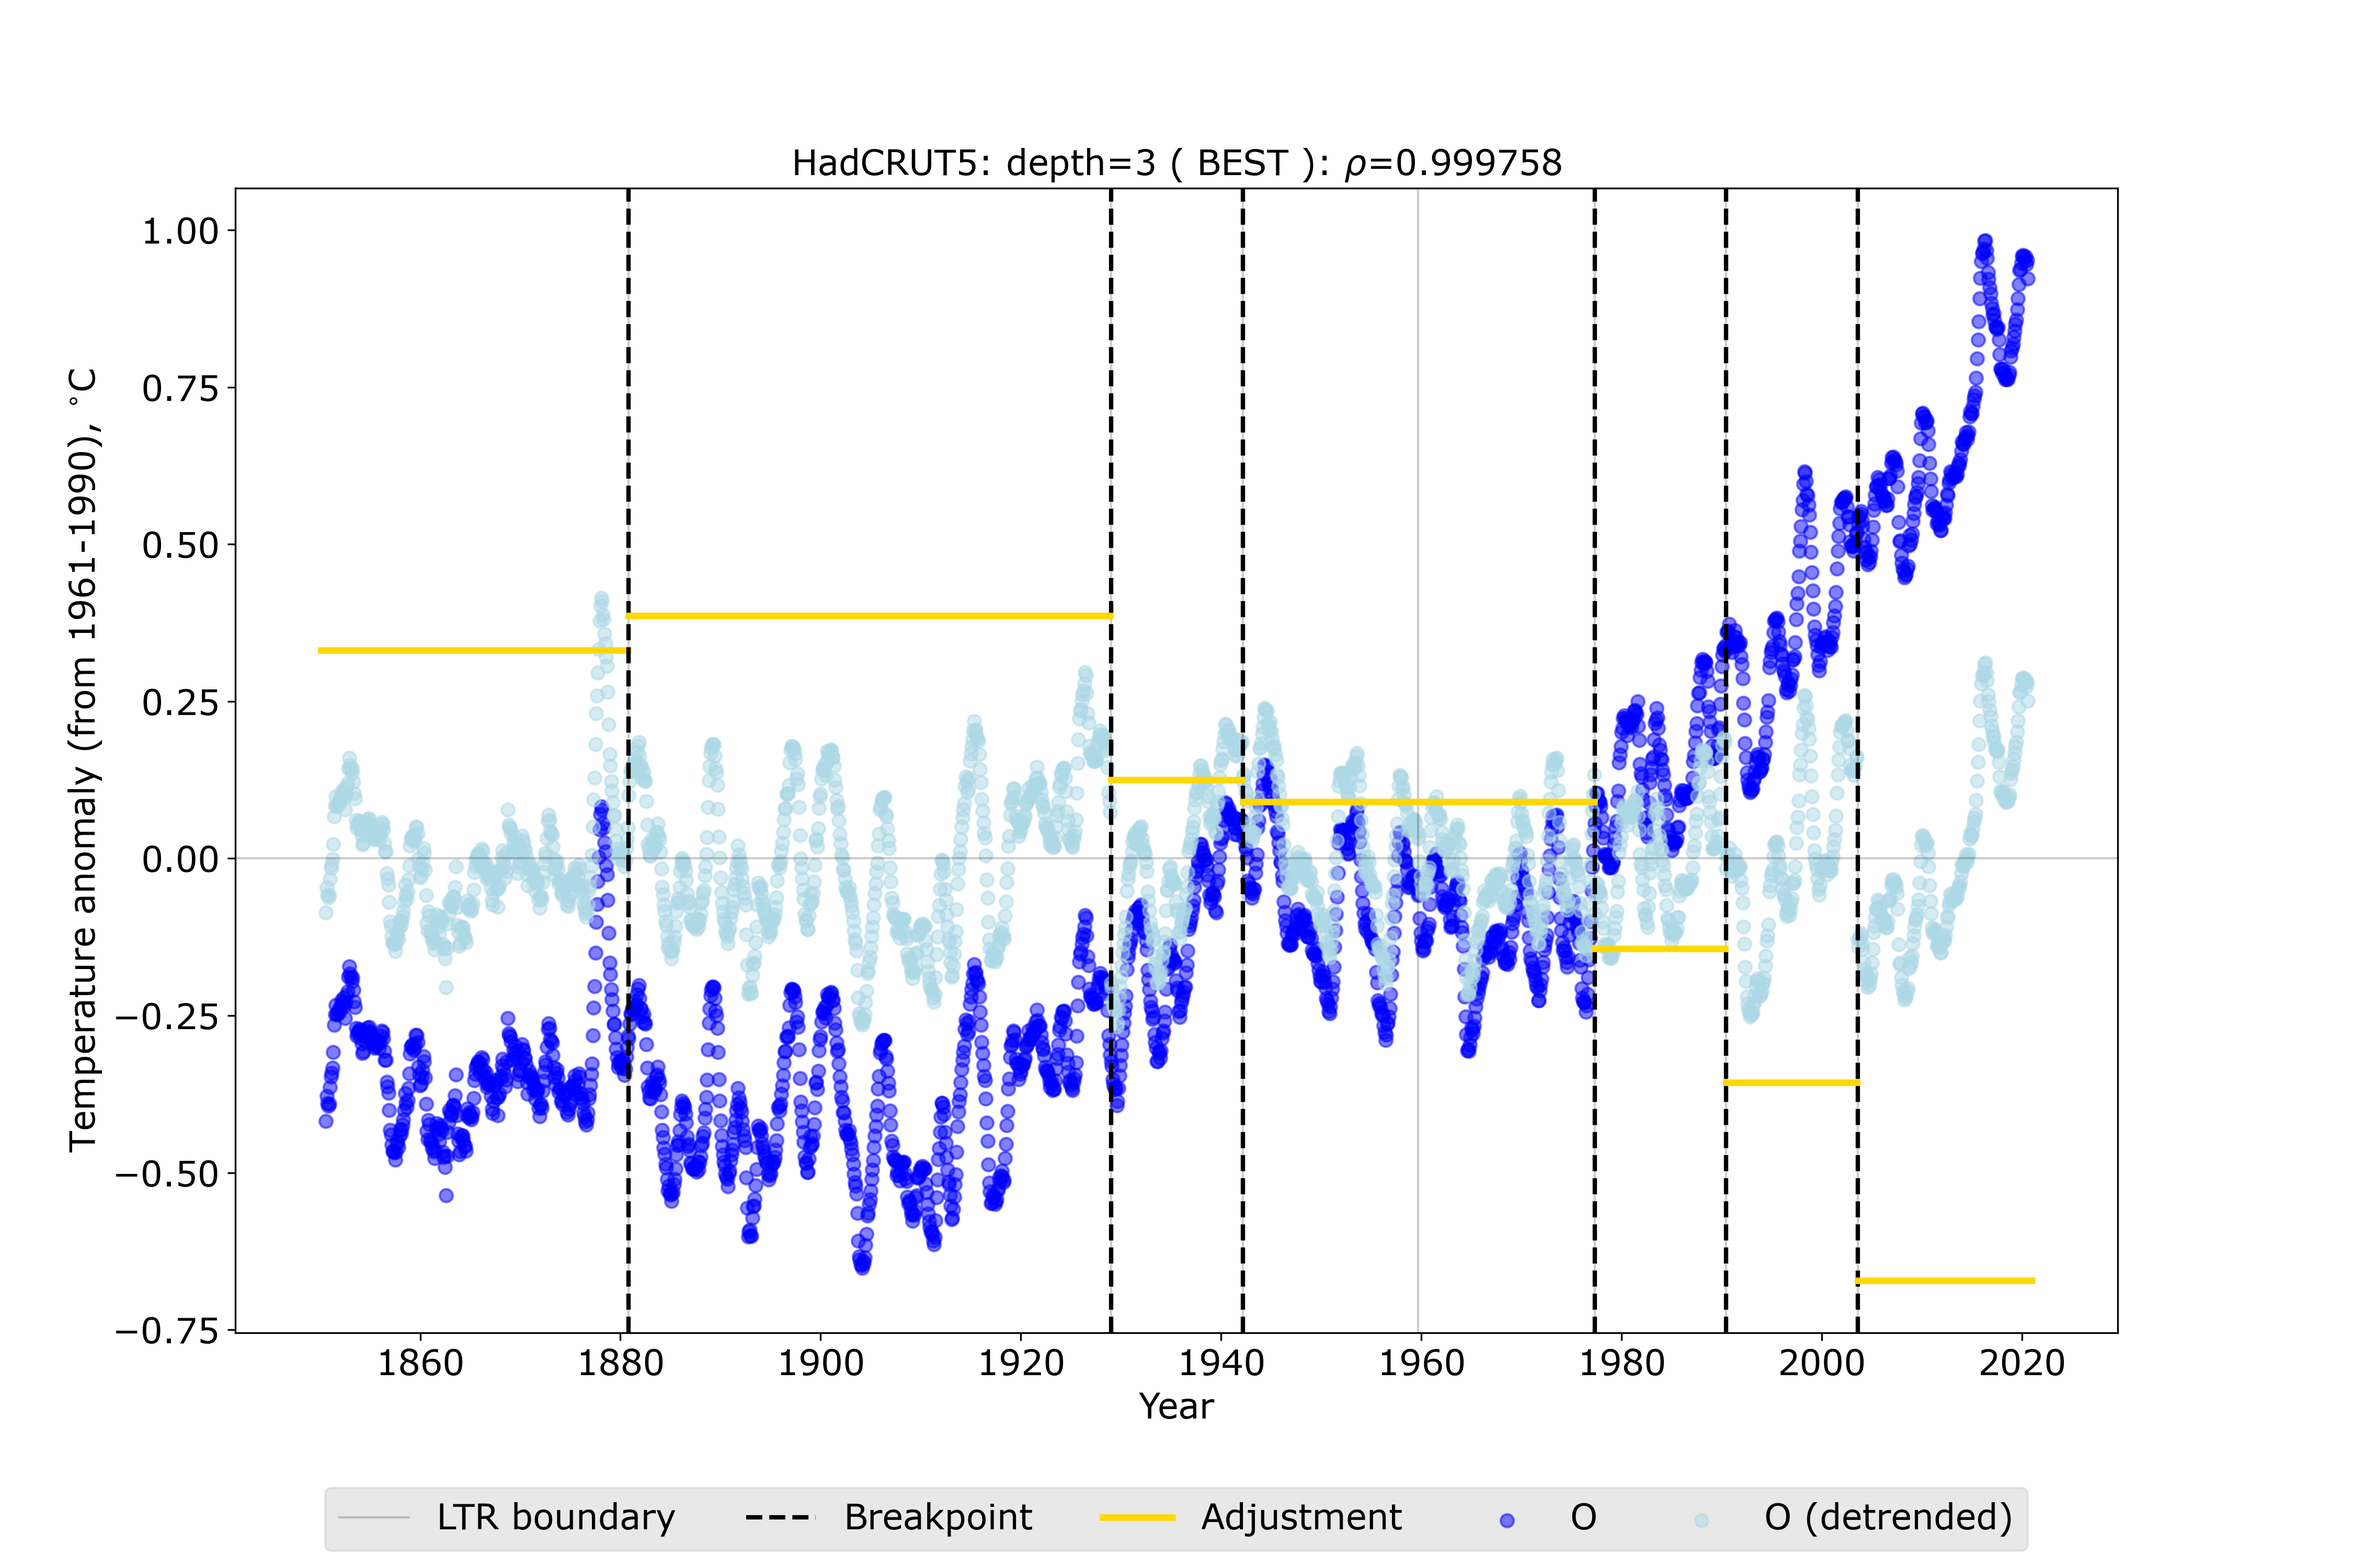
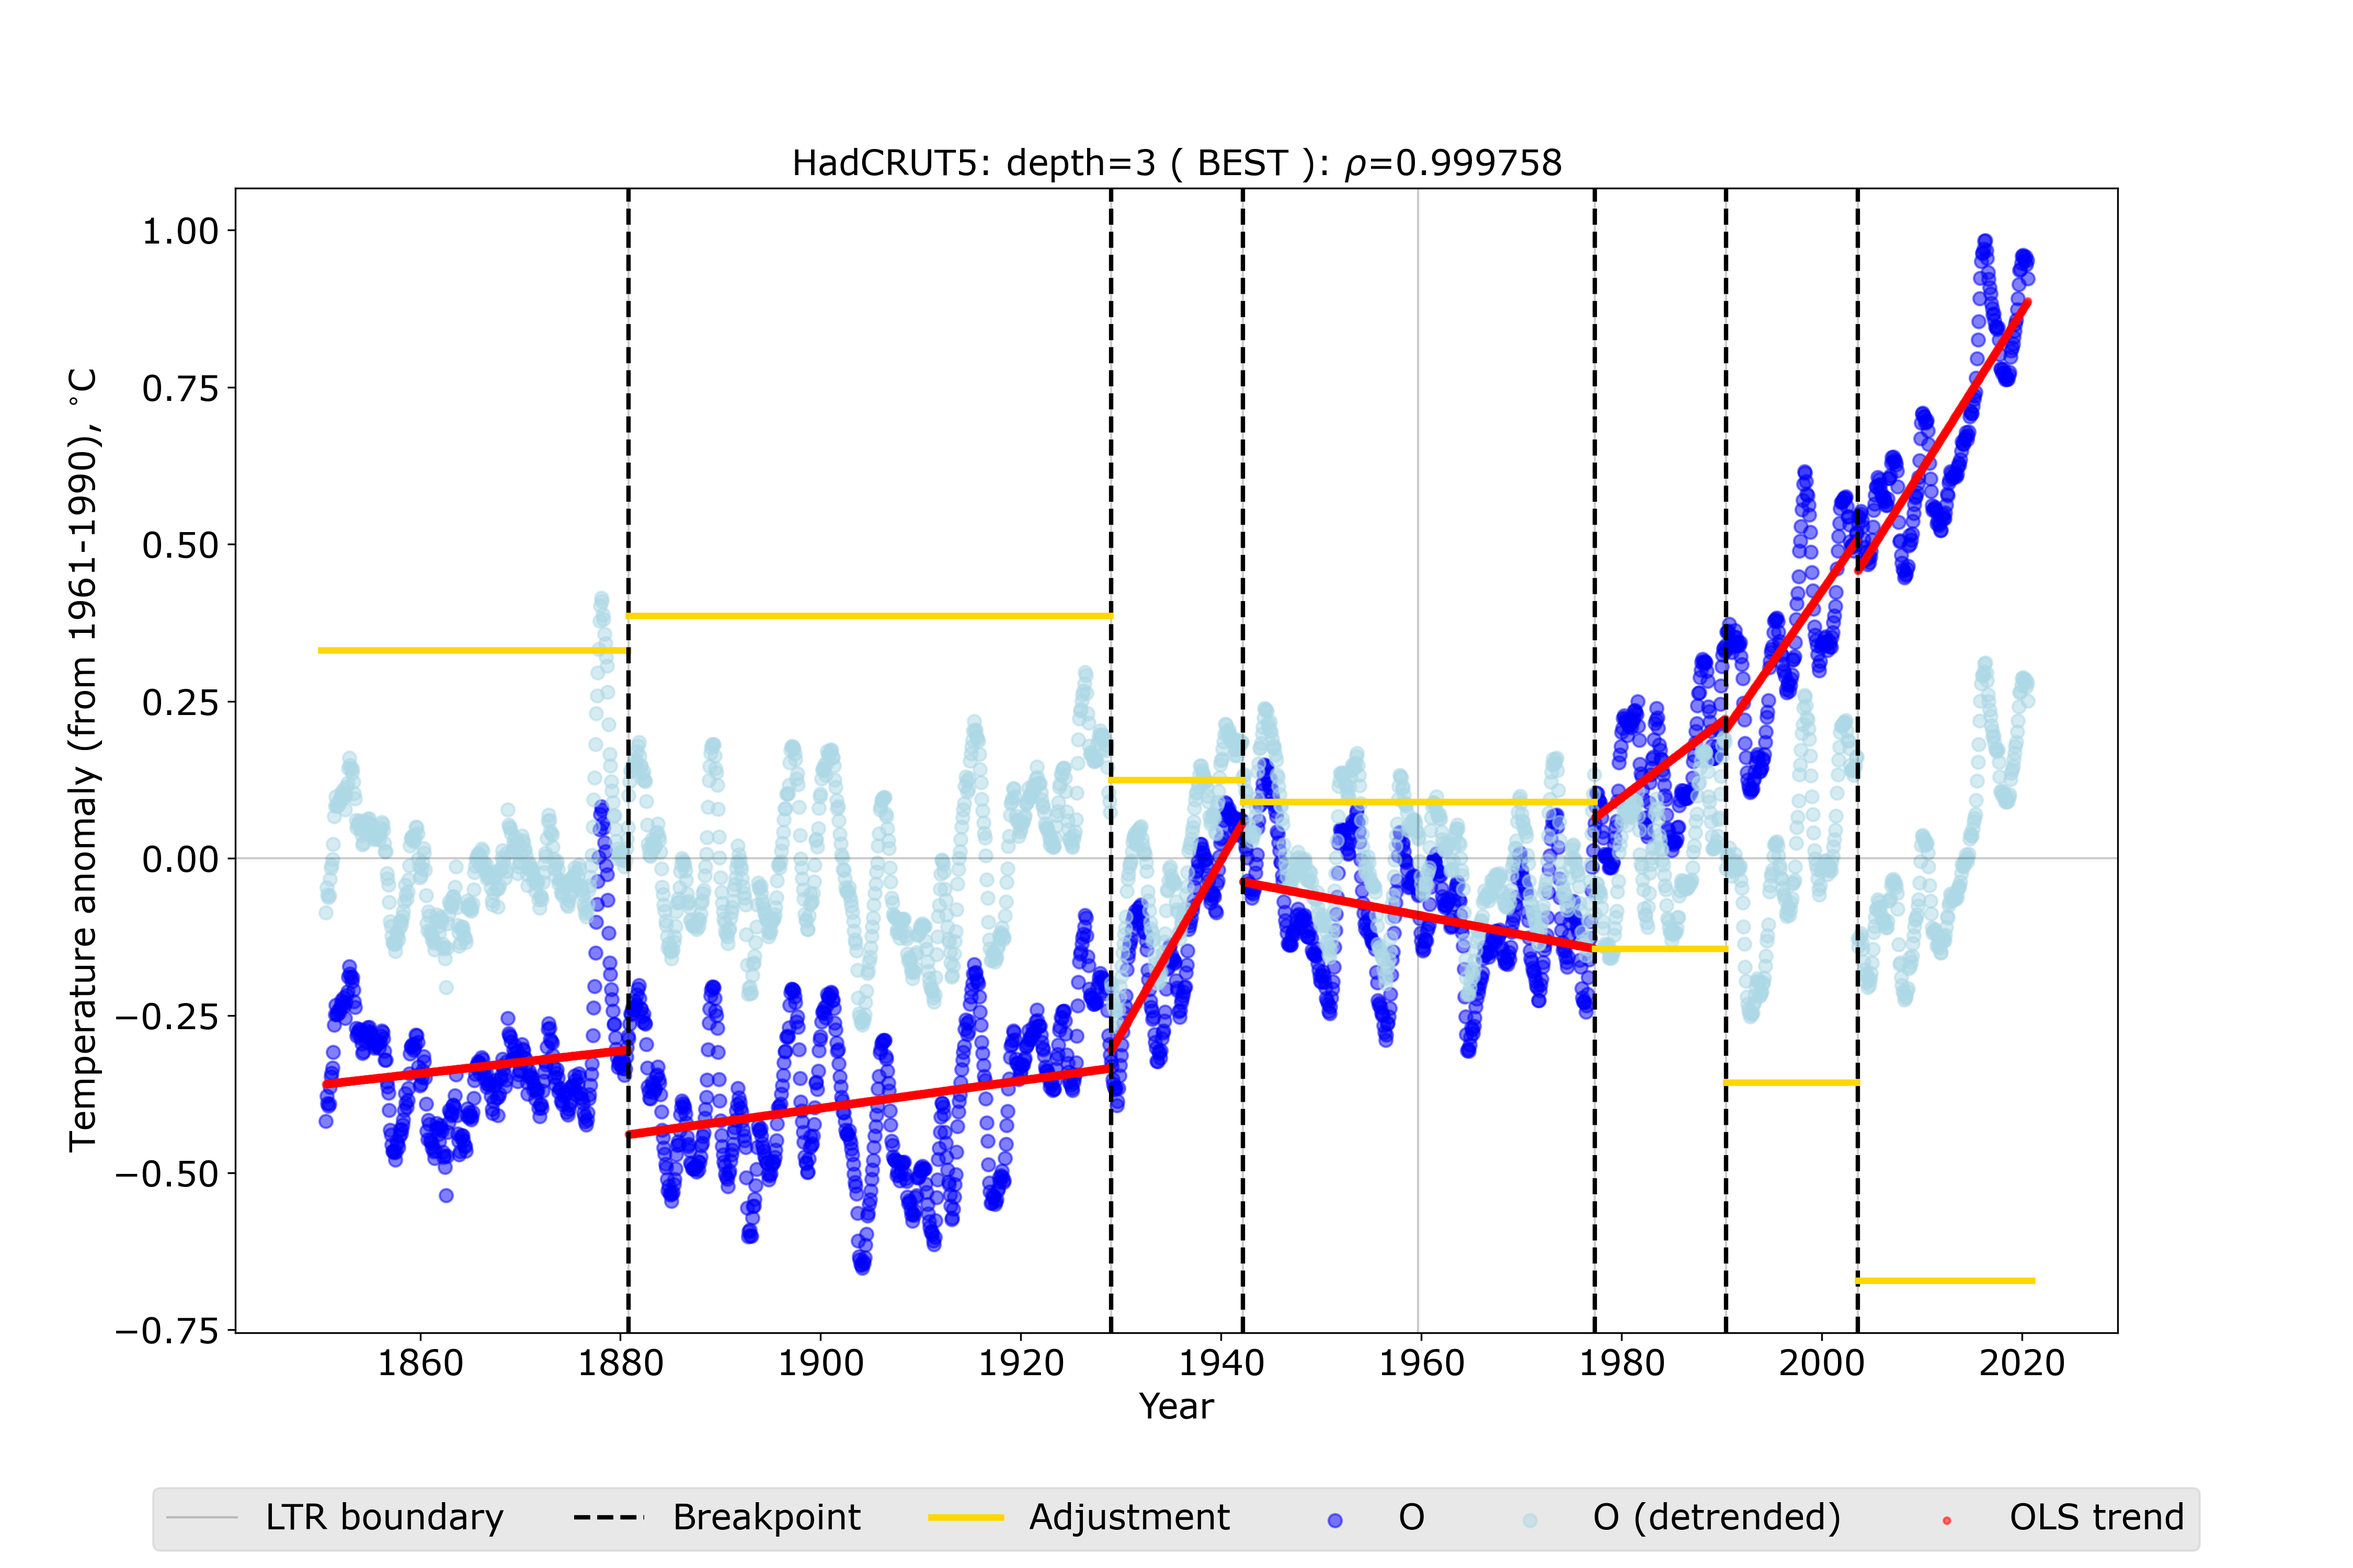
Added segment OLS fits to HadCRUT5 using CUSUM breakpoint detection

diff --git a/cru_changepoint_detector_detrender.py b/cru_changepoint_detector_detrender.py
@@ -21,6 +21,14 @@ import matplotlib.pyplot as plt
 from matplotlib import rcParams
 from datetime import datetime
 
+import scipy
+from sklearn import linear_model
+from sklearn.linear_model import *
+import statsmodels.api as sm
+from lineartree import LinearTreeClassifier, LinearTreeRegressor
+from sklearn.tree import DecisionTreeRegressor, DecisionTreeClassifier
+
+
 #----------------------------------------------------------------------------------
 import filter_cru_dft as cru_filter # CRU DFT filter
 import cru_changepoint_detector as cru # CRU changepoint detector
@@ -109,6 +117,21 @@ def smooth_fft(x, span):
 
     return x_filtered
     
+def linear_regression_ols(x,y):
+    
+    regr = linear_model.LinearRegression()
+    # regr = TheilSenRegressor(random_state=42)
+    # regr = RANSACRegressor(random_state=42)
+    
+    X = x.reshape(len(x),1)
+    xpred = np.linspace(X.min(),X.max(),len(X)) # dummy var spanning [xmin,xmax]        
+    regr.fit(X, y)
+    ypred = regr.predict(xpred.reshape(-1, 1))
+    slope = regr.coef_[0]
+    intercept = regr.intercept_     
+        
+    return xpred, ypred, slope, intercept
+
 #------------------------------------------------------------------------------
 # LOAD: CUSUM timeseries from local expectation Kriging (LEK) analysis
 #------------------------------------------------------------------------------
@@ -152,7 +175,7 @@ y_means = []
 adjustments = []
 for j in range(len(breakpoints)+1):                
     if j == 0:              
-        y_means = y_means + list( np.tile( -np.nanmean(ts_monthly[0:breakpoints[j]]), breakpoints[j] ) ) 
+        y_means = y_means + list( np.tile( -np.nanmean(ts_monthly[0:breakpoints[j]]), breakpoints[j] ) )         
         adjustment = [ -np.nanmean(ts_monthly[0:breakpoints[j]]) ]
     if (j > 0) & (j<len(breakpoints)):
         y_means = y_means + list( np.tile( -np.nanmean(ts_monthly[breakpoints[j-1]:breakpoints[j]]), breakpoints[j]-breakpoints[j-1] )) 
@@ -222,28 +245,67 @@ if plot_cusum == True:
 #------------------------------------------------------------------------------
 # PLOT: O, O(adjusted) and E with breakpoints and adjustments
 #------------------------------------------------------------------------------
-    
+        
 if plot_adjustments == True:
 	    
     figstr = stationcode + '-' + 'adjustments.png'                
 
     fig, ax = plt.subplots(figsize=(15,10))
     plt.scatter(t, a, marker='o', fc='blue', ls='-', lw=1, color='blue', alpha=0.5, label='O')
-    plt.scatter(t, a + y_means, marker='o', fc='lightblue', ls='-', lw=1, color='lightblue', alpha=0.5, label='O (detrended)')
+    plt.scatter(t, a + y_means, marker='o', fc='lightblue', ls='-', lw=1, color='lightblue', alpha=0.5, label='O (detrended)')    
     for i in range(len(t[(y_fit_diff2>0).ravel()])):
         if i==0:
             plt.axvline( t[(y_fit_diff2>0).ravel()][i], ls='-', lw=1, color=default_color, alpha=0.2, label='LTR boundary') 
         else:
-            plt.axvline( t[(y_fit_diff2>0).ravel()][i], ls='-', lw=1, color=default_color, alpha=0.2) 
+            plt.axvline( t[(y_fit_diff2>0).ravel()][i], ls='-', lw=1, color=default_color, alpha=0.2)        
     for i in range(len(breakpoints)):
         if i==0:
             plt.plot( t[0:breakpoints[i]], np.tile( -np.nanmean(a[0:breakpoints[i]]), breakpoints[i] ), ls='-', lw=3, color='gold')
             plt.axvline( t[breakpoints[i]], ls='dashed', lw=2, color=default_color, label='Breakpoint')
+
+            # FIT: OLS to segment
+
+            T = t[0:breakpoints[i]]
+            X = x[0:breakpoints[i]]
+            Y = a[0:breakpoints[i]]
+            mask = np.isfinite(Y)
+            T = T[mask]
+            X = X[mask]
+            Y = Y[mask]
+            xpred, ypred, slope, intercept = linear_regression_ols(X,Y)
+            plt.scatter(T, ypred, marker='.', fc='red', ls='-', lw=1, color='red', alpha=0.5, label='OLS trend')    
+
         else:
             plt.axvline( t[breakpoints[i]], ls='dashed', lw=2, color=default_color)    
             plt.plot( t[breakpoints[i-1]:breakpoints[i]], np.tile( -np.nanmean(a[breakpoints[i-1]:breakpoints[i]]), breakpoints[i]-breakpoints[i-1] ), ls='-', lw=3, color='gold')
+
+            # FIT: OLS to segment
+            
+            T = t[breakpoints[i-1]:breakpoints[i]]
+            X = x[breakpoints[i-1]:breakpoints[i]]
+            Y = a[breakpoints[i-1]:breakpoints[i]]
+            mask = np.isfinite(Y)
+            T = T[mask]
+            X = X[mask]
+            Y = Y[mask]
+            xpred, ypred, slope, intercept = linear_regression_ols(X,Y)
+            plt.scatter(T, ypred, marker='.', fc='red', ls='-', lw=1, color='red', alpha=0.5)    
+
         if i==len(breakpoints)-1:
             plt.plot( t[breakpoints[i]:], np.tile( -np.nanmean(a[breakpoints[i]:]), len(t)-breakpoints[i] ), ls='-', lw=3, color='gold', label='Adjustment')                
+            
+            # FIT: OLS to segment
+
+            T = t[breakpoints[i]:]
+            X = x[breakpoints[i]:]
+            Y = a[breakpoints[i]:]
+            mask = np.isfinite(Y)
+            T = T[mask]
+            X = X[mask]
+            Y = Y[mask]
+            xpred, ypred, slope, intercept = linear_regression_ols(X,Y)
+            plt.scatter(T, ypred, marker='.', fc='red', ls='-', lw=1, color='red', alpha=0.5)    
+            
     plt.axhline( y=0, ls='-', lw=1, color=default_color, alpha=0.2)                    
     ax.xaxis.grid(b=None, which='major', color='none', linestyle='-')
     ax.yaxis.grid(b=None, which='major', color='none', linestyle='-')
